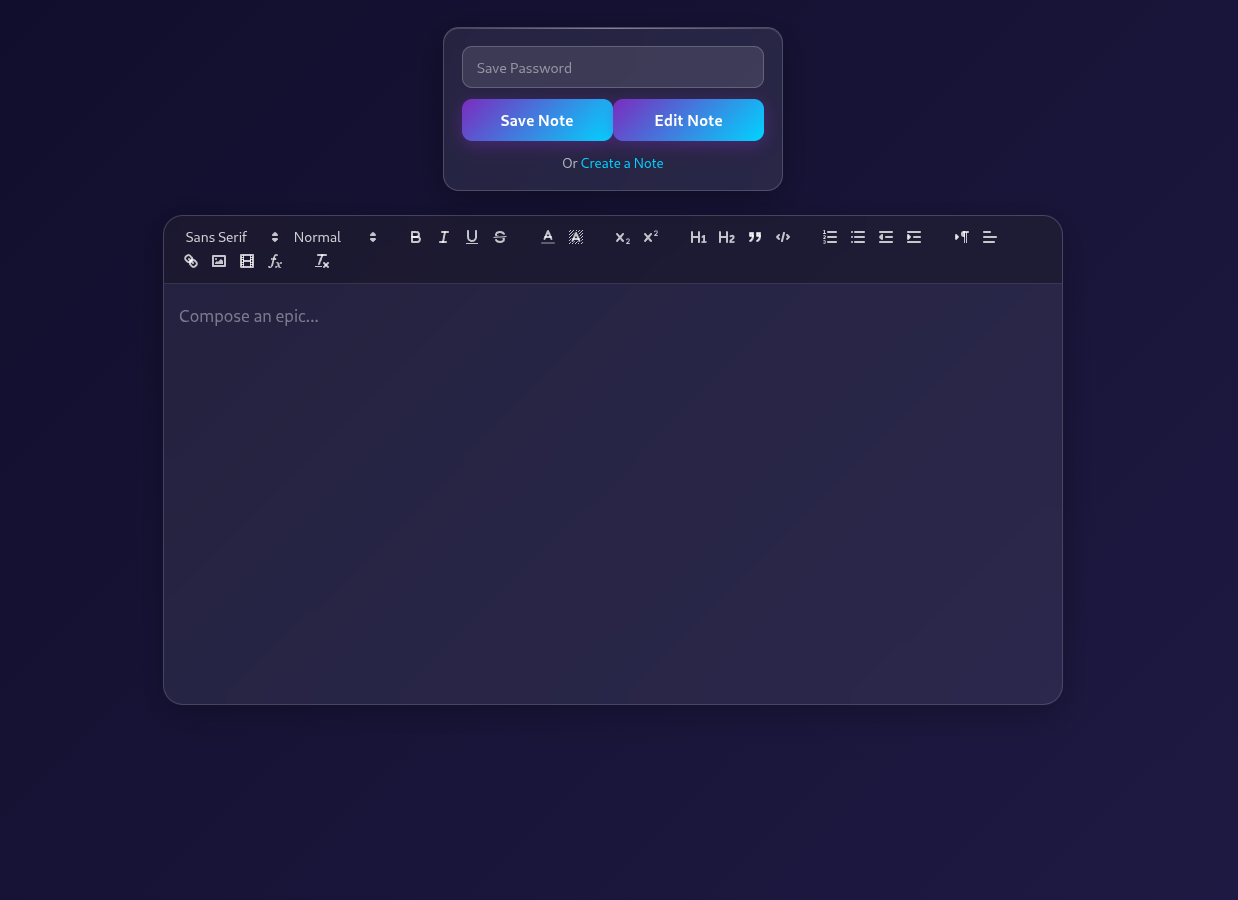
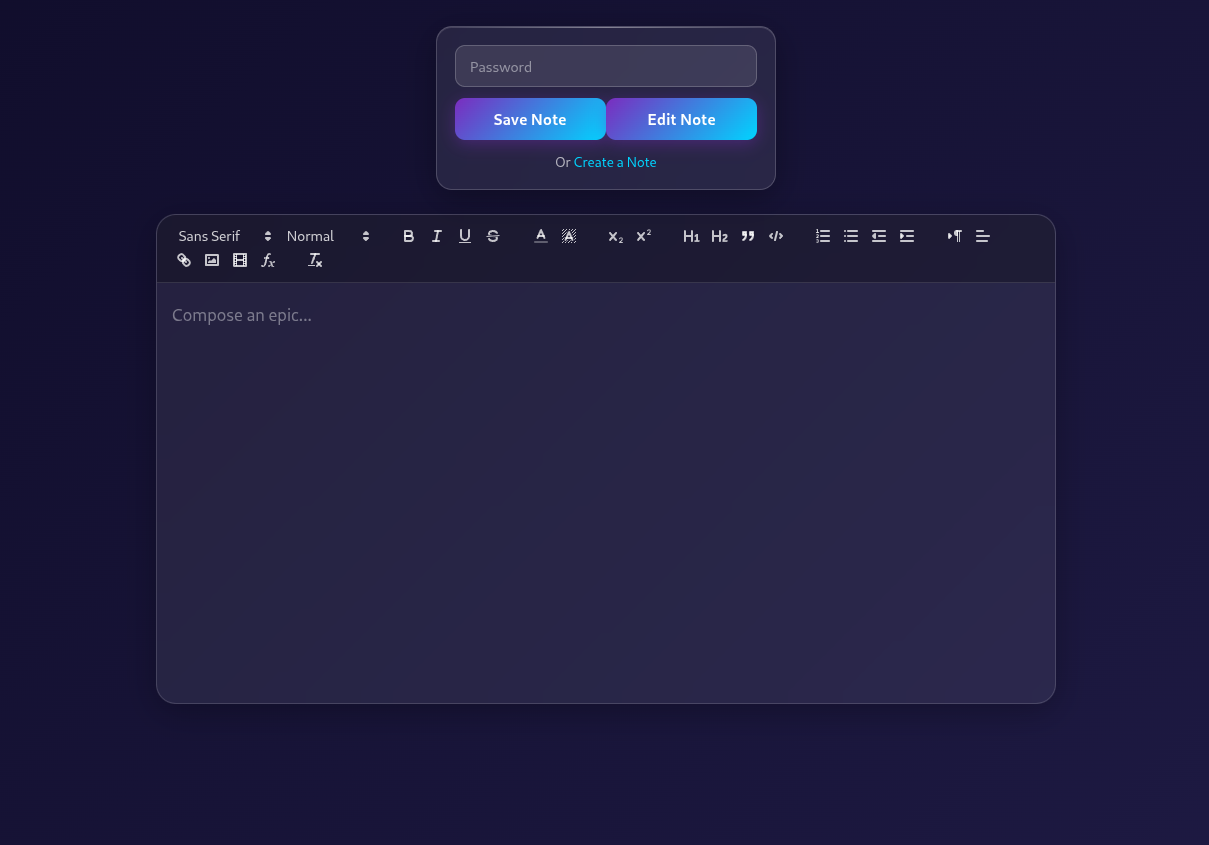
fix: misleading palceholder for password field

Changed region(s): [[0.1224, 0.0308, 0.8263, 0.4]]

diff --git a/public/index.html b/public/index.html
@@ -247,7 +247,7 @@
         <input placeholder="Password" type="password" id="password">
         <button id="get_note">Get Note</button>
 
-        <input placeholder="Save Password" type="password" id="save_password" hidden>
+        <input placeholder="Password" type="password" id="save_password" hidden>
         <div style="display: flex; flex-direction: row;">
             <button id="save_note" hidden>Save Note</button>
             <button id="edit" hidden>Edit Note</button>
